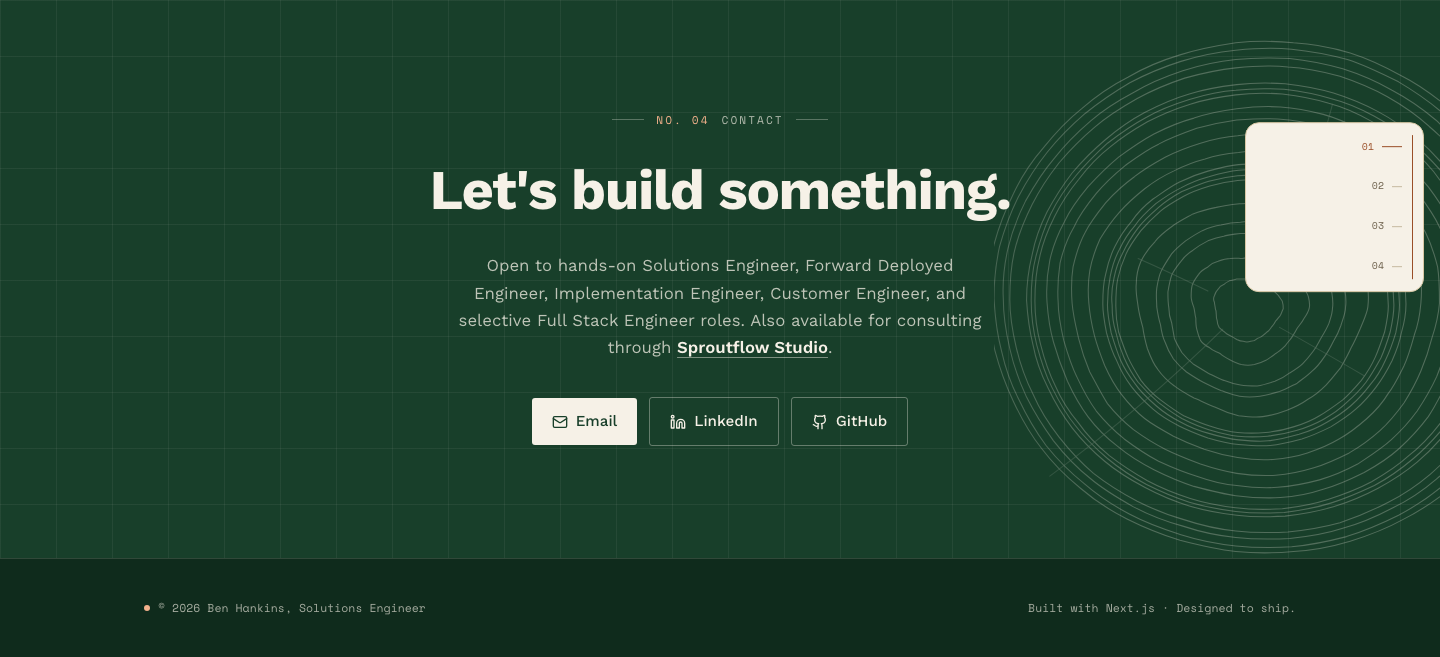
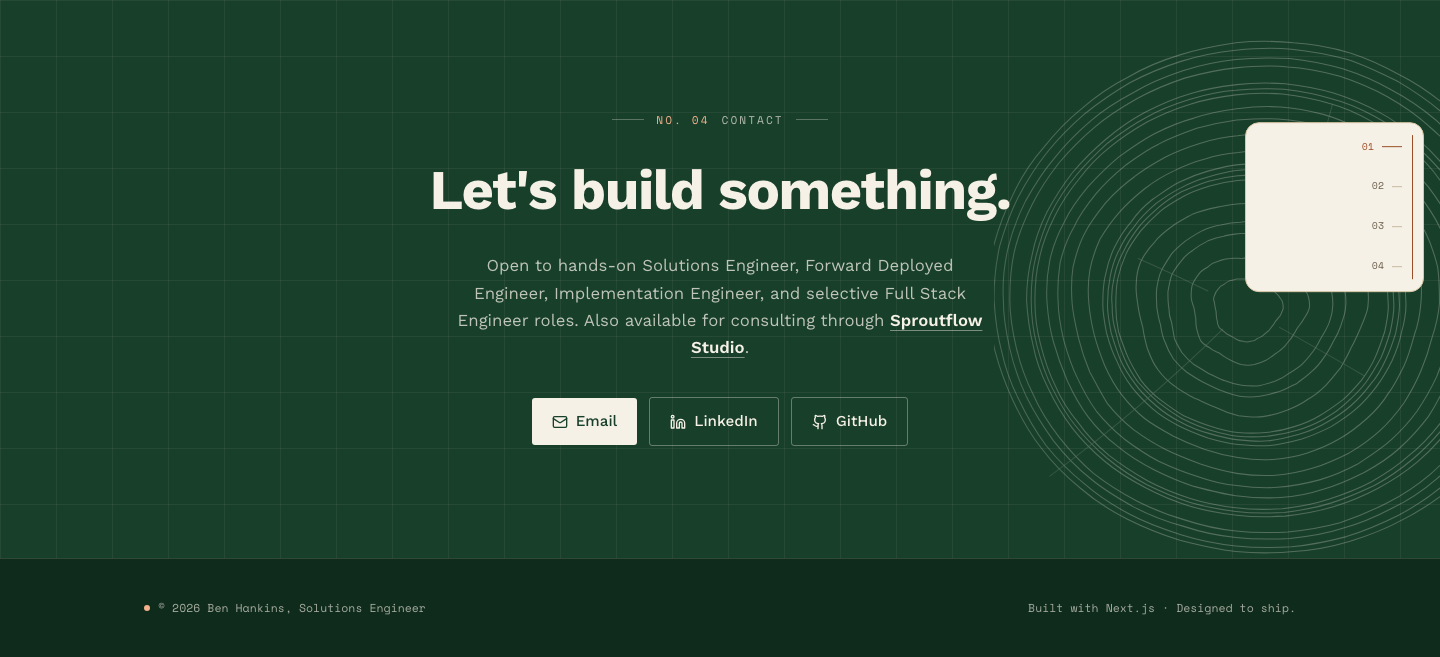
Drop Customer Engineer title and refresh CLAUDE.md
Customer Engineer overlaps with Solutions Engineer, so the contact copy and
metadata keywords now list only the four role targets. Contact screenshots are
recaptured to match.

CLAUDE.md described a Matrix green theme, a components/ui directory, a cn()
helper, Radix UI, colors.ts, and Three.js, none of which exist. It now documents
the actual routes, directories, field-journal palette, positioning rules, and
the motion-reveal pattern for reduced motion.

Changed region(s): [[0.3125, 0.4262, 0.6875, 0.5479]]

diff --git a/src/components/redesign/Contact.tsx b/src/components/redesign/Contact.tsx
@@ -40,8 +40,8 @@ export default function Contact() {
         </h2>
         <p className="mx-auto mt-5 max-w-[52ch] font-body text-[1.05rem] leading-relaxed text-paper/75">
           Open to hands-on Solutions Engineer, Forward Deployed Engineer,
-          Implementation Engineer, Customer Engineer, and selective Full Stack
-          Engineer roles. Also available for consulting through{" "}
+          Implementation Engineer, and selective Full Stack Engineer roles.
+          Also available for consulting through{" "}
           <a
             href="https://sproutflow-studio.com"
             target="_blank"

diff --git a/src/app/layout.tsx b/src/app/layout.tsx
@@ -57,7 +57,6 @@ export const metadata: Metadata = {
     "Solutions Engineer",
     "Forward Deployed Engineer",
     "Implementation Engineer",
-    "Customer Engineer",
     "Full Stack Engineer",
     "cloud infrastructure",
     "Kubernetes",

diff --git a/CLAUDE.md b/CLAUDE.md
@@ -7,7 +7,7 @@ This file provides guidance to Claude Code (claude.ai/code) when working with co
 ```bash
 npm run dev          # Start dev server at http://localhost:3000
 npm run build        # Production build
-npm run lint         # Run ESLint
+npm run lint         # Run ESLint (next lint)
 npm run test         # Run Jest tests
 npm run test:watch   # Jest in watch mode
 npm run type-check   # TypeScript type checking
@@ -16,29 +16,46 @@ npm run build:check  # Type check + build (use before deploy)
 
 ## Architecture
 
-**Stack**: Next.js 15 (App Router) + TypeScript + Tailwind CSS v4 + Framer Motion + Three.js
+**Stack**: Next.js 15 (App Router) + React 19 + TypeScript + Tailwind CSS v4 + Framer Motion + Lucide icons. Deployed on Vercel; `https://benhankins.dev` redirects to `https://www.benhankins.dev`.
+
+**Routes** (`src/app/`):
+- `/` — single editorial page: Hero, ProjectBento (`#work`), Experience, Contact
+- `/projects` and `/projects/[slug]` — project index and case studies (static params from `src/data/projects.ts`)
+- `/about` and `/contact` — permanent redirects to `/#experience` and `/#contact`; keep them for inbound links
+- `opengraph-image.tsx`, `sitemap.ts`, `robots.ts` — generated metadata routes
 
 **Key Directories**:
-- `src/app/` - Pages using App Router (home, /about, /projects, /contact)
-- `src/components/` - React components, including `ui/` for shadcn-style base components
-- `src/data/` - Static data files (projects.ts, experiences.ts)
-- `src/lib/` - Utilities including `cn()` helper, color system, animation configs
-- `src/hooks/` - Custom hooks (scroll triggers, parallax, reduced motion)
+- `src/components/redesign/` — homepage sections plus Nav, Footer, ScrollRail
+- `src/components/projects/` — ProjectBento cards, ProjectCaseStudy, ProjectMicroWorlds illustrations
+- `src/data/` — `projects.ts` (flagship projects, supporting work, Sproutflow) and `experiences.ts`; `projects.test.ts` guards the registry
+- `src/lib/` — `animation-configs/` (easing and motion variants), `sections.ts` (section ids/numbers for the nav and scroll rail), `structured-data.ts` (JSON-LD), `marks.tsx`, `project-signals.ts`
+- `src/hooks/` — `useReducedMotion`, `useScrollTrigger`, `useActiveSection`
+- `docs/` — `DESIGN.md` (design system and migration notes), `screenshots/`, verification notes
 
 **Component Patterns**:
-- Use `"use client"` directive for interactive components
-- Wrap Three.js/heavy components with `dynamic()` import and `{ ssr: false }` for SSR safety
-- Animation constants are centralized in `src/lib/animation-configs/`
-- Category colors for projects/tech are defined in `src/lib/colors.ts`
-
-**Styling**:
-- Theme variables (Matrix green theme) defined in `src/app/globals.css`
-- Uses `cn()` from `src/lib/utils.ts` for conditional classNames (clsx + tailwind-merge)
+- Use `"use client"` for interactive components
+- Animation constants live in `src/lib/animation-configs/`
+- Project and experience copy lives in `src/data/`; change content there, not in components
 - Path alias: `@/*` maps to `./src/*`
 
-**Accessibility**:
-- Use `useReducedMotion()` hook to respect `prefers-reduced-motion`
-- Components use Radix UI primitives for accessible foundations
+## Content and positioning
+
+- Identity line: "Customer-facing engineer by career. Product builder by practice." It appears in the Hero tagline, `layout.tsx` metadata, `opengraph-image.tsx`, and `structured-data.ts` — keep all four in sync.
+- Role targets: Solutions Engineer, Forward Deployed Engineer, Implementation Engineer, and selective Full Stack Engineer. Don't add more titles.
+- Employment facts and metrics must match the resume in `public/Ben_Hankins_SE_Resume.pdf`. Don't invent or round claims.
+
+## Styling
+
+- Field-journal palette (paper, ink, forest, rust/clay, teal) defined as tokens in `src/app/globals.css`; `docs/DESIGN.md` records the verified contrast values — don't drift the hexes
+- Fonts from `layout.tsx`: Work Sans (`font-body`, the workhorse), Old Standard TT (`font-heading`, reserved for the hero name and stat numbers), Space Mono (`font-mono`, eyebrows and labels)
+- The `--color-matrix*`, `--color-mbg-*`, and `--color-mtext-*` tokens in `globals.css` are legacy from the old theme and unused
+- `receipt.html` at the repo root is orphaned and not served
+
+## Motion and accessibility
+
+- Respect `prefers-reduced-motion` via `useReducedMotion()`
+- Content below the fold renders visible by default — no `whileInView` reveals (DESIGN.md Migration Note #1)
+- Mount reveals must not branch their `initial`/`animate` props on `useReducedMotion`: the hook only knows the preference after mount, so the server always renders `opacity: 0` and the branch can strand elements invisible. Keep one animation path and add the `motion-reveal` class; `globals.css` pins it to its final state under reduced motion
 
 ## Pre-commit
 

diff --git a/docs/verification-2026-09-16.md b/docs/verification-2026-09-16.md
@@ -94,16 +94,16 @@ Six current captures in `docs/screenshots/` — home hero, selected work, and
 contact CTA at 1440×900 and 390×844. See that folder's README for how they
 were produced.
 
+## Follow-up changes
+
+- **Contact copy trimmed to the four role targets.** "Customer Engineer" was
+  removed from the contact section and the metadata keywords — it overlaps
+  with Solutions Engineer, so it added length without adding a distinct target.
+- **`CLAUDE.md` rewritten** to match the current codebase. It described a
+  Matrix green theme, a `src/components/ui/` directory, `src/lib/colors.ts`, a
+  `cn()` helper, Radix UI, and Three.js, none of which exist now.
+
 ## Open items (not changed)
 
-- **Contact copy lists five role titles** — Solutions Engineer, Forward
-  Deployed Engineer, Implementation Engineer, Customer Engineer, and selective
-  Full Stack Engineer. The handoff names four targets and says not to turn the
-  site into a list of every possible title. "Customer Engineer" is the extra
-  one. Left as merged in PR #22 — it is a positioning call, not a defect.
-- **`CLAUDE.md` has drifted** — it describes a Matrix green theme, a
-  `src/components/ui/` directory, `src/lib/colors.ts`, `useParallax`, and
-  Three.js, none of which exist now. Out of scope here (the handoff scoped doc
-  updates to the README) but worth a follow-up.
 - **`receipt.html`** remains an orphaned file at the repo root, as recorded in
   `docs/role-targeting-copy-fix-2026-08-30.md`.
